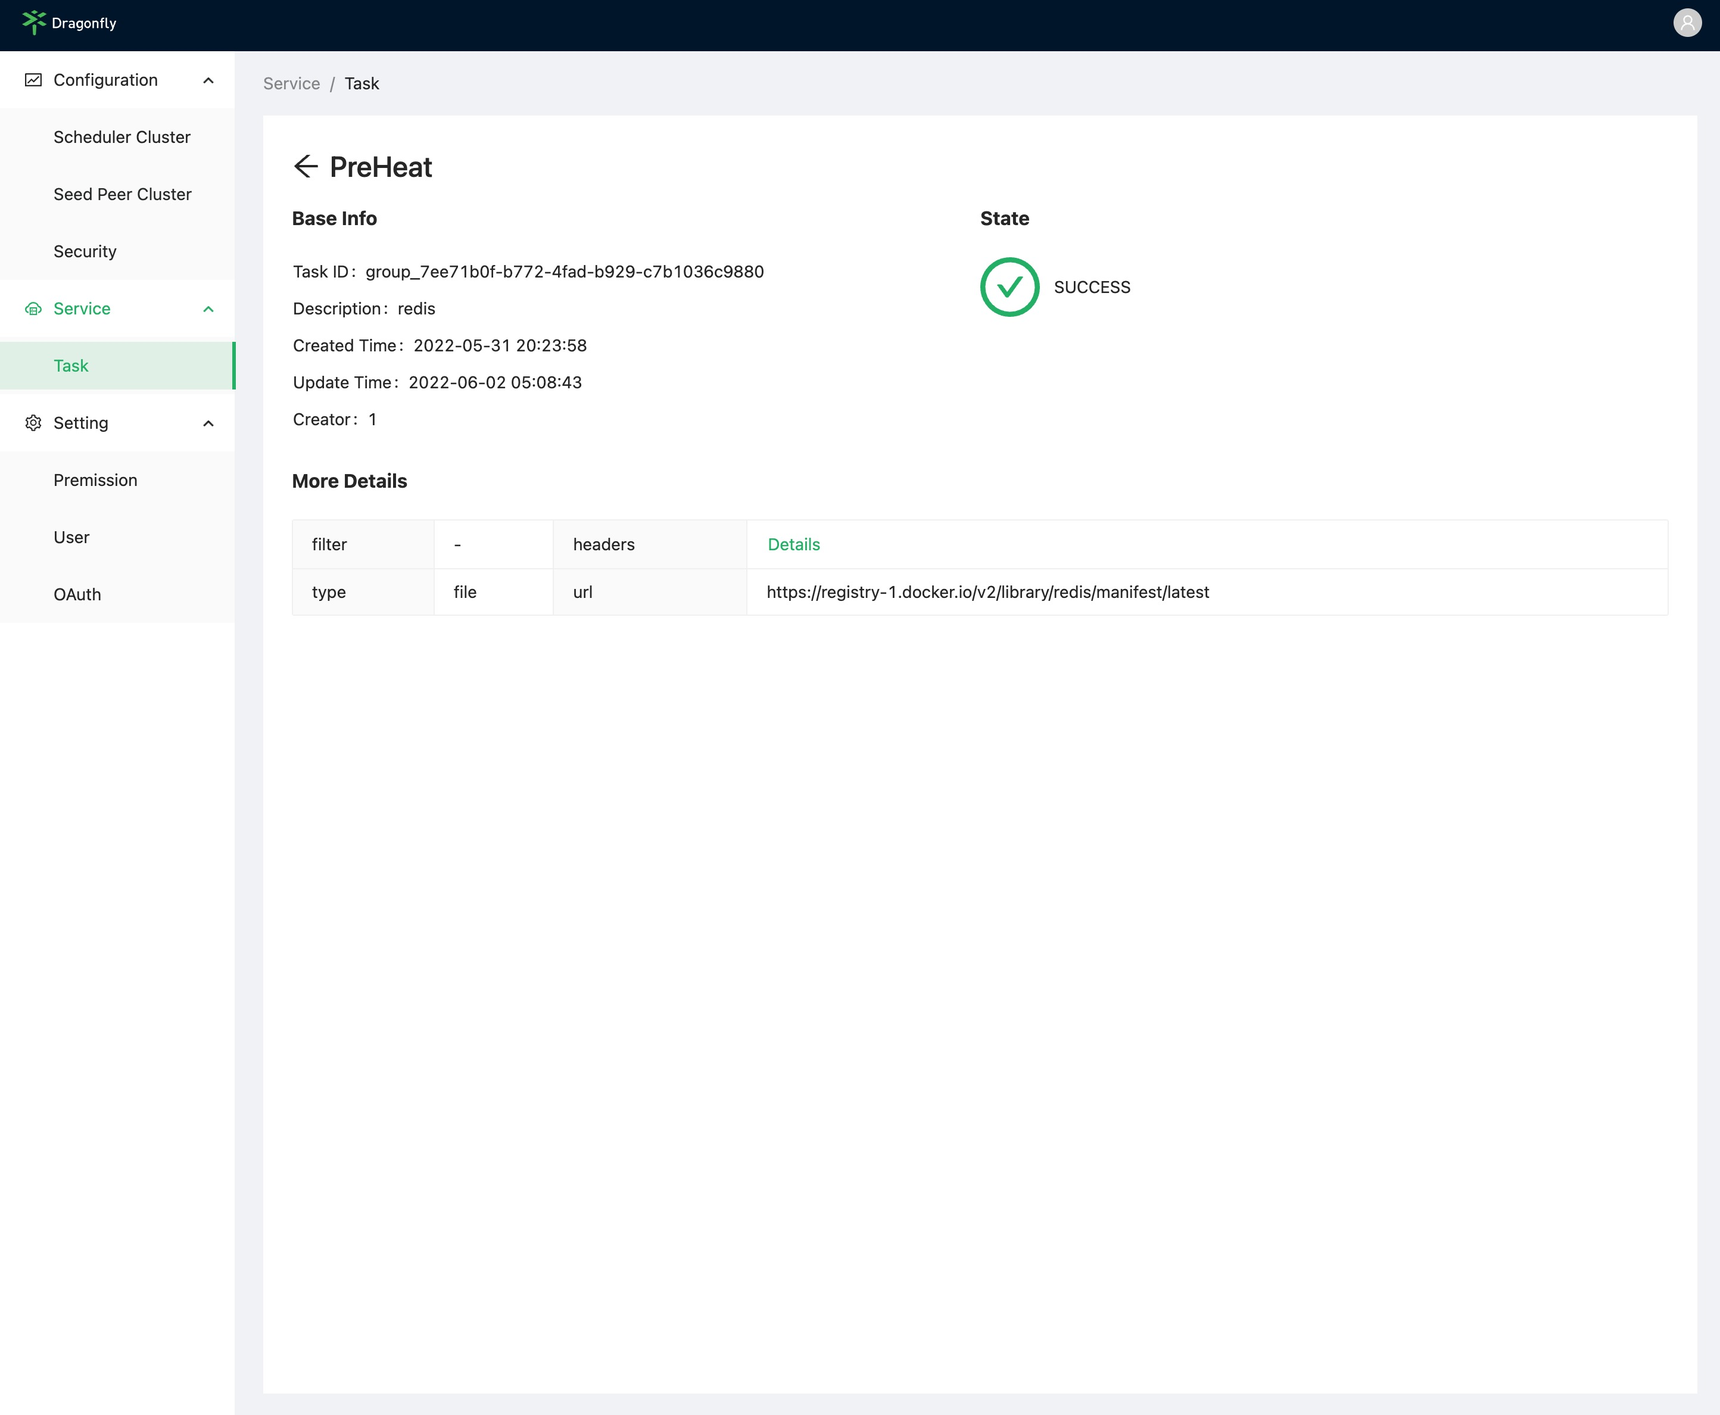
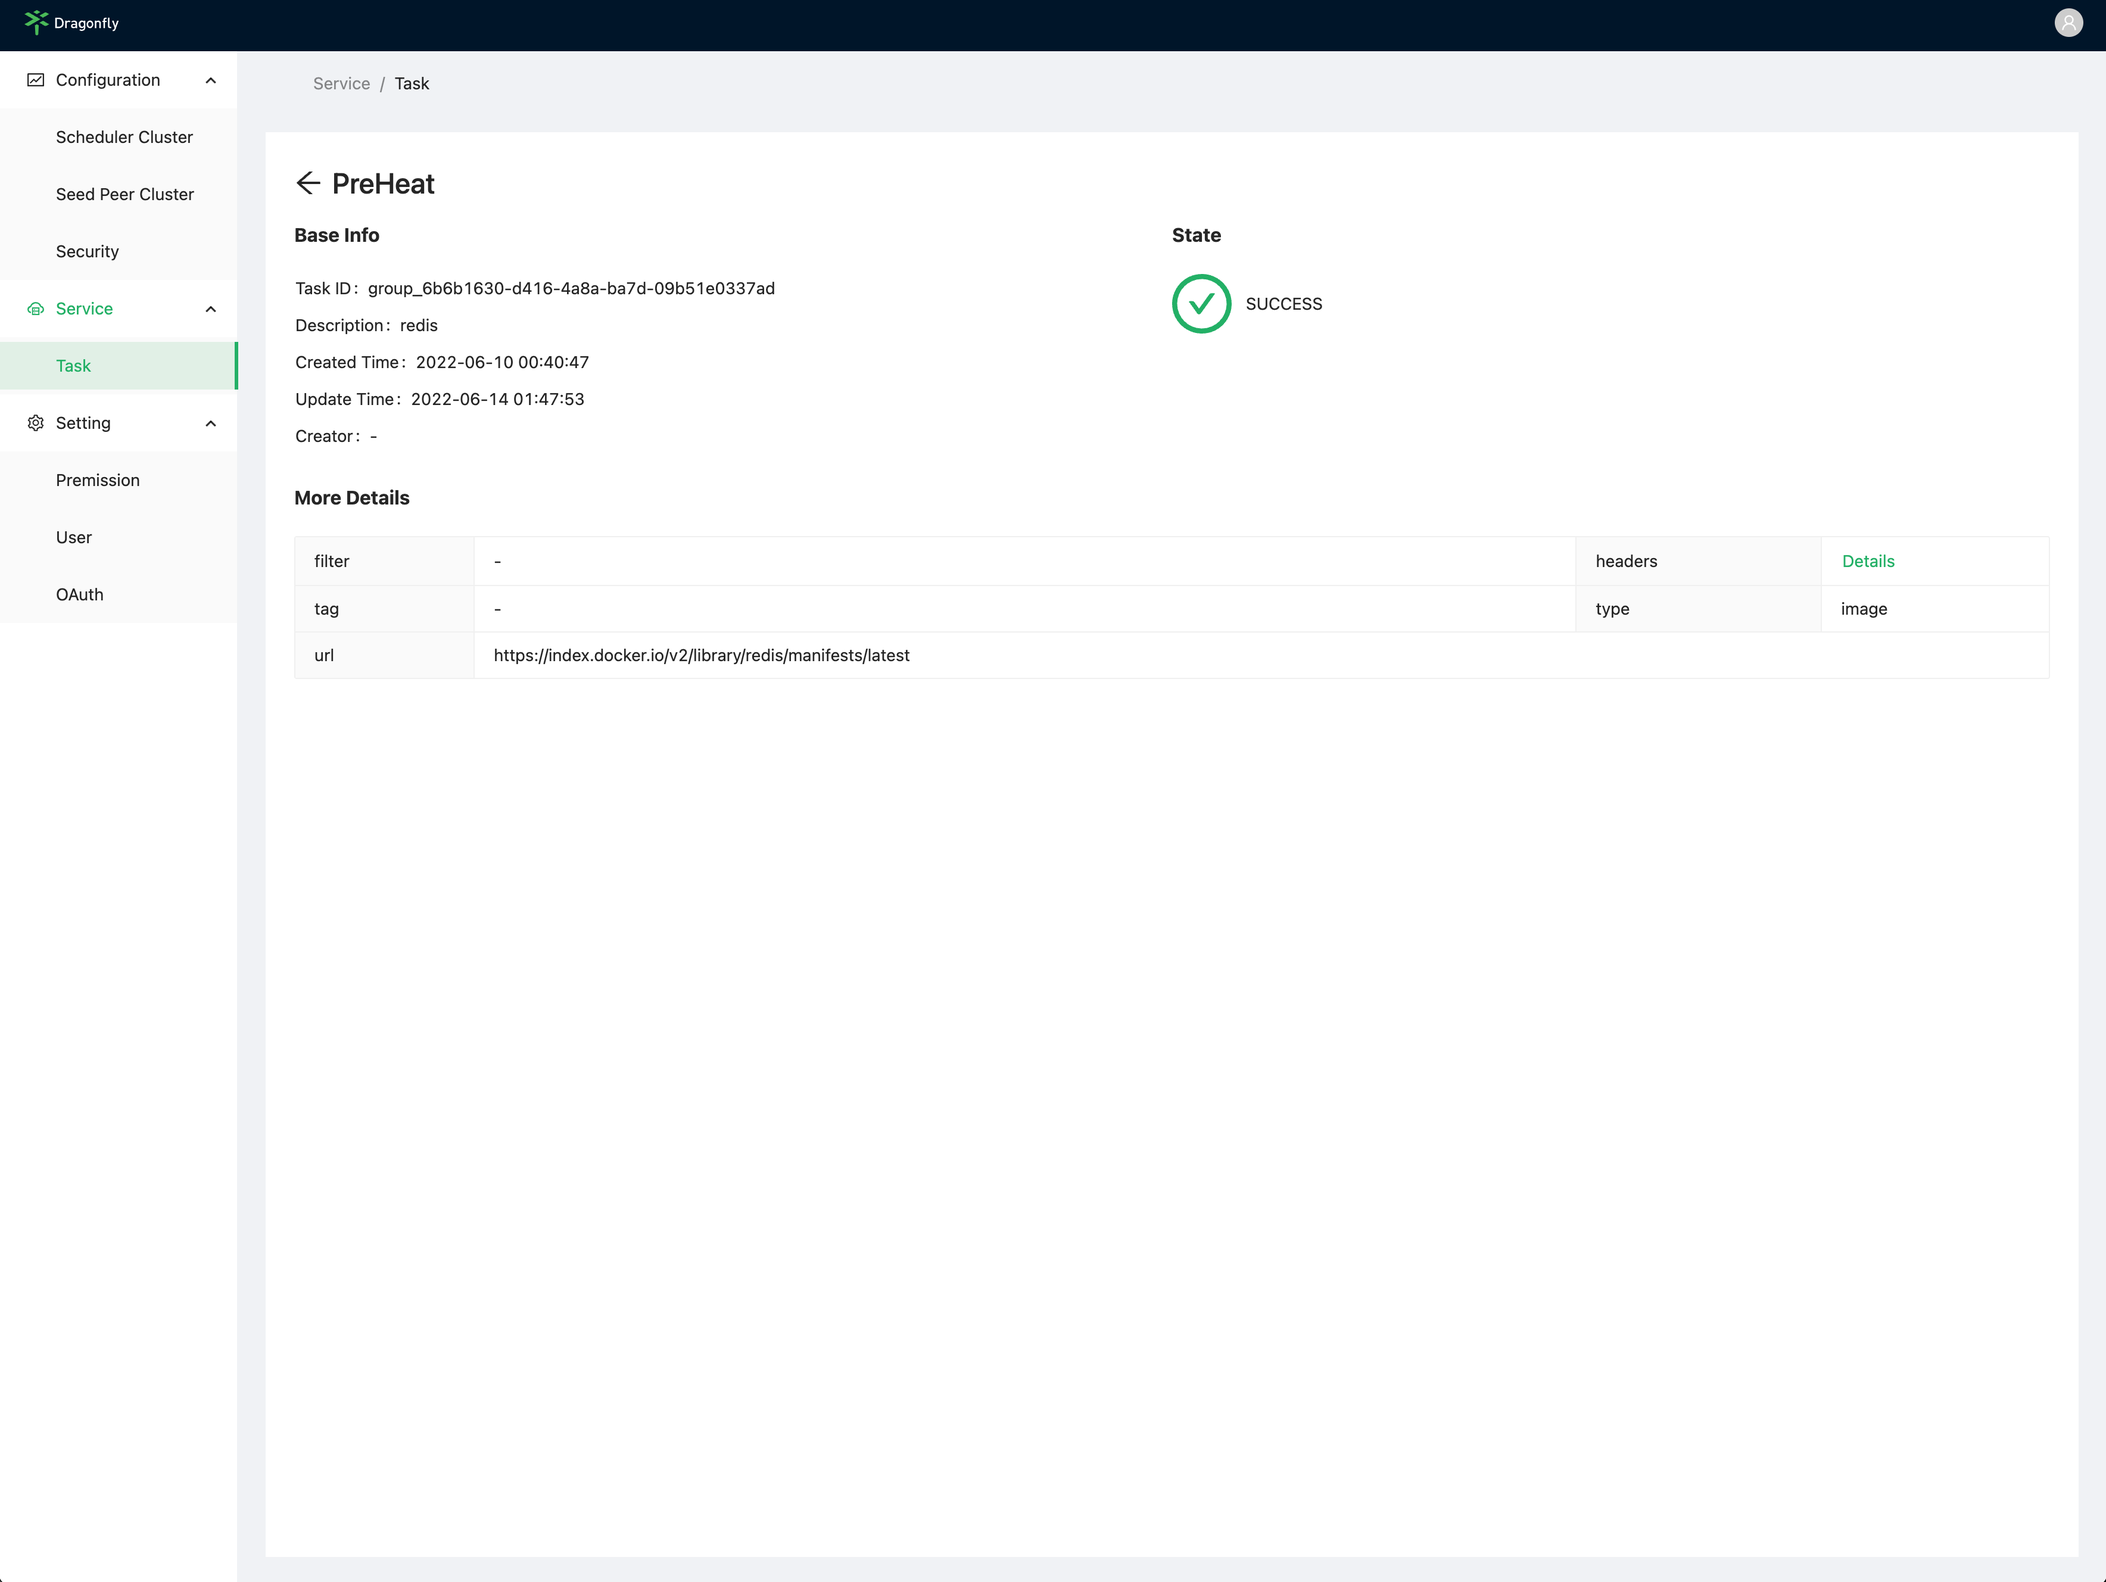
feat: update preheat with containerd and rename registry-1.docker.io to index.docker.io (#91)
*feat: update preheat with containerd and rename registry-1.docker.io to index.docker.io

diff --git a/i18n/zh/docusaurus-plugin-content-docs/current/reference/preheat/api.md b/i18n/zh/docusaurus-plugin-content-docs/current/reference/preheat/api.md
@@ -3,6 +3,21 @@ id: api
 title: API
 ---
 
+## 配置
+
+如果客户端为 containerd，建议将 dfget.yaml 配置 `proxy.defaultFilter` 设置为 `Expires&Signature&ns`,
+因为 containerd 会将 blobs 下载 URL 增加 `ns` query params,
+参考代码 [containerd/remotes/docker/resolver.go](https://github.com/containerd/containerd/blob/main/remotes/docker/resolver.go#L493)。
+这样会导致生成的 Task ID 和预热的 Task ID 不相同，因此无法命中已经预热好的 Task ID。
+
+```yaml
+# proxy service detail option
+proxy:
+  defaultFilter: 'Expires&Signature&ns'
+```
+
+## 操作
+
 用户使用 api 进行预热。首先发送 POST 请求创建预热任务。
 
 如果 `scheduler_cluster_ids` 不存在，表示对所有 scheduler cluster 进行预热。
@@ -14,7 +29,7 @@ curl --location --request POST 'http://dragonfly-manager:8080/api/v1/jobs' \
     "type": "preheat",
     "args": {
         "type": "image",
-        "url": "https://registry-1.docker.io/v2/library/redis/manifests/latest"
+        "url": "https://index.docker.io/v2/library/redis/manifests/latest"
     }
 }'
 ```
@@ -31,7 +46,7 @@ curl --location --request POST 'http://dragonfly-manager:8080/api/v1/jobs' \
         "filter": "",
         "headers": null,
         "type": "image",
-        "url": "https://registry-1.docker.io/v2/library/redis/manifests/latest"
+        "url": "https://index.docker.io/v2/library/redis/manifests/latest"
     }
 }
 ```
@@ -54,7 +69,7 @@ curl --request GET 'http://dragonfly-manager:8080/api/v1/jobs/1'
         "filter": "",
         "headers": null,
         "type": "image",
-        "url": "https://registry-1.docker.io/v2/library/redis/manifests/latest"
+        "url": "https://index.docker.io/v2/library/redis/manifests/latest"
     }
 }
 ```

diff --git a/i18n/zh/docusaurus-plugin-content-docs/version-v2.0.3/reference/preheat/api.md b/i18n/zh/docusaurus-plugin-content-docs/version-v2.0.3/reference/preheat/api.md
@@ -3,6 +3,21 @@ id: api
 title: API
 ---
 
+## 配置
+
+如果客户端为 containerd，建议将 dfget.yaml 配置 `proxy.defaultFilter` 设置为 `Expires&Signature&ns`,
+因为 containerd 会将 blobs 下载 URL 增加 `ns` query params,
+参考代码 [containerd/remotes/docker/resolver.go](https://github.com/containerd/containerd/blob/main/remotes/docker/resolver.go#L493)。
+这样会导致生成的 Task ID 和预热的 Task ID 不相同，因此无法命中已经预热好的 Task ID。
+
+```yaml
+# proxy service detail option
+proxy:
+  defaultFilter: 'Expires&Signature&ns'
+```
+
+## 操作
+
 用户使用 api 进行预热。首先发送 POST 请求创建预热任务。
 
 如果 `scheduler_cluster_ids` 不存在，表示对所有 scheduler cluster 进行预热。
@@ -14,7 +29,7 @@ curl --location --request POST 'http://dragonfly-manager:8080/api/v1/jobs' \
     "type": "preheat",
     "args": {
         "type": "image",
-        "url": "https://registry-1.docker.io/v2/library/redis/manifests/latest"
+        "url": "https://index.docker.io/v2/library/redis/manifests/latest"
     }
 }'
 ```
@@ -31,7 +46,7 @@ curl --location --request POST 'http://dragonfly-manager:8080/api/v1/jobs' \
         "filter": "",
         "headers": null,
         "type": "image",
-        "url": "https://registry-1.docker.io/v2/library/redis/manifests/latest"
+        "url": "https://index.docker.io/v2/library/redis/manifests/latest"
     }
 }
 ```
@@ -54,7 +69,7 @@ curl --request GET 'http://dragonfly-manager:8080/api/v1/jobs/1'
         "filter": "",
         "headers": null,
         "type": "image",
-        "url": "https://registry-1.docker.io/v2/library/redis/manifests/latest"
+        "url": "https://index.docker.io/v2/library/redis/manifests/latest"
     }
 }
 ```

diff --git a/docs/reference/preheat/api.md b/docs/reference/preheat/api.md
@@ -5,6 +5,21 @@ title: API
 
 Use preheat apis for preheating. First create a POST request for preheating.
 
+## Configuration
+
+If the client is `containerd`, it is recommended to configure `proxy.defaultFilter` in dfget.yaml and set it to `Expires&Signature&ns`,
+because containerd will add `ns` query params to the blobs download URL,
+refer to [containerd/remotes/docker/resolver.go](https://github.com/containerd/containerd/blob/main/remotes/docker/resolver.go#L493).
+Which will cause the generated Task ID to be different from the preheat Task ID, so it is impossible to hit the preheat blobs.
+
+```yaml
+# proxy service detail option
+proxy:
+  defaultFilter: 'Expires&Signature&ns'
+```
+
+## Operation
+
 If the `scheduler_cluster_ids` does not exist,
 it means to preheat all scheduler clusters.
 
@@ -15,7 +30,7 @@ curl --location --request POST 'http://dragonfly-manager:8080/api/v1/jobs' \
     "type": "preheat",
     "args": {
         "type": "image",
-        "url": "https://registry-1.docker.io/v2/library/redis/manifests/latest"
+        "url": "https://index.docker.io/v2/library/redis/manifests/latest"
     }
 }'
 ```
@@ -32,7 +47,7 @@ If the output of command above has content like
         "filter": "",
         "headers": null,
         "type": "image",
-        "url": "https://registry-1.docker.io/v2/library/redis/manifests/latest"
+        "url": "https://index.docker.io/v2/library/redis/manifests/latest"
     }
 }
 ```
@@ -55,7 +70,7 @@ If the status is `SUCCESS`, the preheating is successful.
         "filter": "",
         "headers": null,
         "type": "image",
-        "url": "https://registry-1.docker.io/v2/library/redis/manifests/latest"
+        "url": "https://index.docker.io/v2/library/redis/manifests/latest"
     }
 }
 ```

diff --git a/versioned_docs/version-v2.0.3/reference/preheat/api.md b/versioned_docs/version-v2.0.3/reference/preheat/api.md
@@ -3,6 +3,21 @@ id: api
 title: API
 ---
 
+## Configuration
+
+If the client is `containerd`, it is recommended to configure `proxy.defaultFilter` in dfget.yaml and set it to `Expires&Signature&ns`,
+because containerd will add `ns` query params to the blobs download URL,
+refer to [containerd/remotes/docker/resolver.go](https://github.com/containerd/containerd/blob/main/remotes/docker/resolver.go#L493).
+Which will cause the generated Task ID to be different from the preheat Task ID, so it is impossible to hit the preheat blobs.
+
+```yaml
+# proxy service detail option
+proxy:
+  defaultFilter: 'Expires&Signature&ns'
+```
+
+## Operation
+
 Use preheat apis for preheating. First create a POST request for preheating.
 
 If the `scheduler_cluster_ids` does not exist,
@@ -15,7 +30,7 @@ curl --location --request POST 'http://dragonfly-manager:8080/api/v1/jobs' \
     "type": "preheat",
     "args": {
         "type": "image",
-        "url": "https://registry-1.docker.io/v2/library/redis/manifests/latest"
+        "url": "https://index.docker.io/v2/library/redis/manifests/latest"
     }
 }'
 ```
@@ -32,7 +47,7 @@ If the output of command above has content like
         "filter": "",
         "headers": null,
         "type": "image",
-        "url": "https://registry-1.docker.io/v2/library/redis/manifests/latest"
+        "url": "https://index.docker.io/v2/library/redis/manifests/latest"
     }
 }
 ```
@@ -55,7 +70,7 @@ If the status is `SUCCESS`, the preheating is successful.
         "filter": "",
         "headers": null,
         "type": "image",
-        "url": "https://registry-1.docker.io/v2/library/redis/manifests/latest"
+        "url": "https://index.docker.io/v2/library/redis/manifests/latest"
     }
 }
 ```

diff --git a/docs/setup/runtime/containerd/mirror.md b/docs/setup/runtime/containerd/mirror.md
@@ -49,13 +49,13 @@ Enable mirrors in Containerd registries configuration in
 version = 2
 
 [plugins."io.containerd.grpc.v1.cri".registry.mirrors."docker.io"]
-  endpoint = ["http://127.0.0.1:65001","https://registry-1.docker.io"]
+  endpoint = ["http://127.0.0.1:65001","https://index.docker.io"]
 ```
 
 In this config, there is two mirror endpoints for "docker.io",
 Containerd will pull images with `http://127.0.0.1:65001` first.
 If `http://127.0.0.1:65001` is not available,
-the default `https://registry-1.docker.io` will be used for HA.
+the default `https://index.docker.io` will be used for HA.
 
 Enable mirrors in private Containerd registries configuration in
 
@@ -66,7 +66,7 @@ Enable mirrors in private Containerd registries configuration in
 version = 2
 
 [plugins."io.containerd.grpc.v1.cri".registry.mirrors."docker.io"]
-  endpoint = ["http://127.0.0.1:65001","https://registry-1.docker.io"]
+  endpoint = ["http://127.0.0.1:65001","https://index.docker.io"]
 
 [plugins."io.containerd.grpc.v1.cri".registry.configs."127.0.0.1:65001".auth]
   username = "registry_username"

diff --git a/versioned_docs/version-v2.0.2/setup/runtime/containerd/mirror.md b/versioned_docs/version-v2.0.2/setup/runtime/containerd/mirror.md
@@ -49,13 +49,13 @@ Enable mirrors in Containerd registries configuration in
 version = 2
 
 [plugins."io.containerd.grpc.v1.cri".registry.mirrors."docker.io"]
-  endpoint = ["http://127.0.0.1:65001","https://registry-1.docker.io"]
+  endpoint = ["http://127.0.0.1:65001","https://index.docker.io"]
 ```
 
 In this config, there is two mirror endpoints for "docker.io",
 Containerd will pull images with `http://127.0.0.1:65001` first.
 If `http://127.0.0.1:65001` is not available,
-the default `https://registry-1.docker.io` will be used for HA.
+the default `https://index.docker.io` will be used for HA.
 
 Enable mirrors in private Containerd registries configuration in
 
@@ -66,7 +66,7 @@ Enable mirrors in private Containerd registries configuration in
 version = 2
 
 [plugins."io.containerd.grpc.v1.cri".registry.mirrors."docker.io"]
-  endpoint = ["http://127.0.0.1:65001","https://registry-1.docker.io"]
+  endpoint = ["http://127.0.0.1:65001","https://index.docker.io"]
 
 [plugins."io.containerd.grpc.v1.cri".registry.configs."127.0.0.1:65001".auth]
   username = "registry_username"

diff --git a/versioned_docs/version-v2.0.3/setup/runtime/containerd/mirror.md b/versioned_docs/version-v2.0.3/setup/runtime/containerd/mirror.md
@@ -49,13 +49,13 @@ Enable mirrors in Containerd registries configuration in
 version = 2
 
 [plugins."io.containerd.grpc.v1.cri".registry.mirrors."docker.io"]
-  endpoint = ["http://127.0.0.1:65001","https://registry-1.docker.io"]
+  endpoint = ["http://127.0.0.1:65001","https://index.docker.io"]
 ```
 
 In this config, there is two mirror endpoints for "docker.io",
 Containerd will pull images with `http://127.0.0.1:65001` first.
 If `http://127.0.0.1:65001` is not available,
-the default `https://registry-1.docker.io` will be used for HA.
+the default `https://index.docker.io` will be used for HA.
 
 Enable mirrors in private Containerd registries configuration in
 
@@ -66,7 +66,7 @@ Enable mirrors in private Containerd registries configuration in
 version = 2
 
 [plugins."io.containerd.grpc.v1.cri".registry.mirrors."docker.io"]
-  endpoint = ["http://127.0.0.1:65001","https://registry-1.docker.io"]
+  endpoint = ["http://127.0.0.1:65001","https://index.docker.io"]
 
 [plugins."io.containerd.grpc.v1.cri".registry.configs."127.0.0.1:65001".auth]
   username = "registry_username"

diff --git a/i18n/zh/docusaurus-plugin-content-docs/version-v2.0.2/reference/preheat/api.md b/i18n/zh/docusaurus-plugin-content-docs/version-v2.0.2/reference/preheat/api.md
@@ -14,7 +14,7 @@ curl --location --request POST 'http://dragonfly-manager:8080/api/v1/jobs' \
     "type": "preheat",
     "args": {
         "type": "image",
-        "url": "https://registry-1.docker.io/v2/library/redis/manifests/latest"
+        "url": "https://index.docker.io/v2/library/redis/manifests/latest"
     }
 }'
 ```
@@ -31,7 +31,7 @@ curl --location --request POST 'http://dragonfly-manager:8080/api/v1/jobs' \
         "filter": "",
         "headers": null,
         "type": "image",
-        "url": "https://registry-1.docker.io/v2/library/redis/manifests/latest"
+        "url": "https://index.docker.io/v2/library/redis/manifests/latest"
     }
 }
 ```
@@ -54,7 +54,7 @@ curl --request GET 'http://dragonfly-manager:8080/api/v1/jobs/1'
         "filter": "",
         "headers": null,
         "type": "image",
-        "url": "https://registry-1.docker.io/v2/library/redis/manifests/latest"
+        "url": "https://index.docker.io/v2/library/redis/manifests/latest"
     }
 }
 ```

diff --git a/versioned_docs/version-v2.0.2/reference/preheat/api.md b/versioned_docs/version-v2.0.2/reference/preheat/api.md
@@ -15,7 +15,7 @@ curl --location --request POST 'http://dragonfly-manager:8080/api/v1/jobs' \
     "type": "preheat",
     "args": {
         "type": "image",
-        "url": "https://registry-1.docker.io/v2/library/redis/manifests/latest"
+        "url": "https://index.docker.io/v2/library/redis/manifests/latest"
     }
 }'
 ```
@@ -32,7 +32,7 @@ If the output of command above has content like
         "filter": "",
         "headers": null,
         "type": "image",
-        "url": "https://registry-1.docker.io/v2/library/redis/manifests/latest"
+        "url": "https://index.docker.io/v2/library/redis/manifests/latest"
     }
 }
 ```
@@ -55,7 +55,7 @@ If the status is `SUCCESS`, the preheating is successful.
         "filter": "",
         "headers": null,
         "type": "image",
-        "url": "https://registry-1.docker.io/v2/library/redis/manifests/latest"
+        "url": "https://index.docker.io/v2/library/redis/manifests/latest"
     }
 }
 ```

diff --git a/i18n/zh/docusaurus-plugin-content-docs/current/setup/runtime/containerd/mirror.md b/i18n/zh/docusaurus-plugin-content-docs/current/setup/runtime/containerd/mirror.md
@@ -46,10 +46,10 @@ dfget daemon
 version = 2
 
 [plugins."io.containerd.grpc.v1.cri".registry.mirrors."docker.io"]
-  endpoint = ["http://127.0.0.1:65001","https://registry-1.docker.io"]
+  endpoint = ["http://127.0.0.1:65001","https://index.docker.io"]
 ```
 
-配置支持两个镜像仓库地址 `http://127.0.0.1:65001` 以及 `https://registry-1.docker.io`.
+配置支持两个镜像仓库地址 `http://127.0.0.1:65001` 以及 `https://index.docker.io`.
 
 在 Containerd 配置文件中启用私有镜像注册中心，配置文件位于 `/etc/containerd/config.toml`:
 
@@ -58,7 +58,7 @@ version = 2
 version = 2
 
 [plugins."io.containerd.grpc.v1.cri".registry.mirrors."docker.io"]
-  endpoint = ["http://127.0.0.1:65001","https://registry-1.docker.io"]
+  endpoint = ["http://127.0.0.1:65001","https://index.docker.io"]
 
 [plugins."io.containerd.grpc.v1.cri".registry.configs."127.0.0.1:65001".auth]
   username = "registry_username"

diff --git a/i18n/zh/docusaurus-plugin-content-docs/version-v2.0.2/setup/runtime/containerd/mirror.md b/i18n/zh/docusaurus-plugin-content-docs/version-v2.0.2/setup/runtime/containerd/mirror.md
@@ -46,10 +46,10 @@ dfget daemon
 version = 2
 
 [plugins."io.containerd.grpc.v1.cri".registry.mirrors."docker.io"]
-  endpoint = ["http://127.0.0.1:65001","https://registry-1.docker.io"]
+  endpoint = ["http://127.0.0.1:65001","https://index.docker.io"]
 ```
 
-配置支持两个镜像仓库地址 `http://127.0.0.1:65001` 以及 `https://registry-1.docker.io`.
+配置支持两个镜像仓库地址 `http://127.0.0.1:65001` 以及 `https://index.docker.io`.
 
 在 Containerd 配置文件中启用私有镜像注册中心，配置文件位于 `/etc/containerd/config.toml`:
 
@@ -58,7 +58,7 @@ version = 2
 version = 2
 
 [plugins."io.containerd.grpc.v1.cri".registry.mirrors."docker.io"]
-  endpoint = ["http://127.0.0.1:65001","https://registry-1.docker.io"]
+  endpoint = ["http://127.0.0.1:65001","https://index.docker.io"]
 
 [plugins."io.containerd.grpc.v1.cri".registry.configs."127.0.0.1:65001".auth]
   username = "registry_username"

diff --git a/i18n/zh/docusaurus-plugin-content-docs/version-v2.0.3/setup/runtime/containerd/mirror.md b/i18n/zh/docusaurus-plugin-content-docs/version-v2.0.3/setup/runtime/containerd/mirror.md
@@ -46,10 +46,10 @@ dfget daemon
 version = 2
 
 [plugins."io.containerd.grpc.v1.cri".registry.mirrors."docker.io"]
-  endpoint = ["http://127.0.0.1:65001","https://registry-1.docker.io"]
+  endpoint = ["http://127.0.0.1:65001","https://index.docker.io"]
 ```
 
-配置支持两个镜像仓库地址 `http://127.0.0.1:65001` 以及 `https://registry-1.docker.io`.
+配置支持两个镜像仓库地址 `http://127.0.0.1:65001` 以及 `https://index.docker.io`.
 
 在 Containerd 配置文件中启用私有镜像注册中心，配置文件位于 `/etc/containerd/config.toml`:
 
@@ -58,7 +58,7 @@ version = 2
 version = 2
 
 [plugins."io.containerd.grpc.v1.cri".registry.mirrors."docker.io"]
-  endpoint = ["http://127.0.0.1:65001","https://registry-1.docker.io"]
+  endpoint = ["http://127.0.0.1:65001","https://index.docker.io"]
 
 [plugins."io.containerd.grpc.v1.cri".registry.configs."127.0.0.1:65001".auth]
   username = "registry_username"
